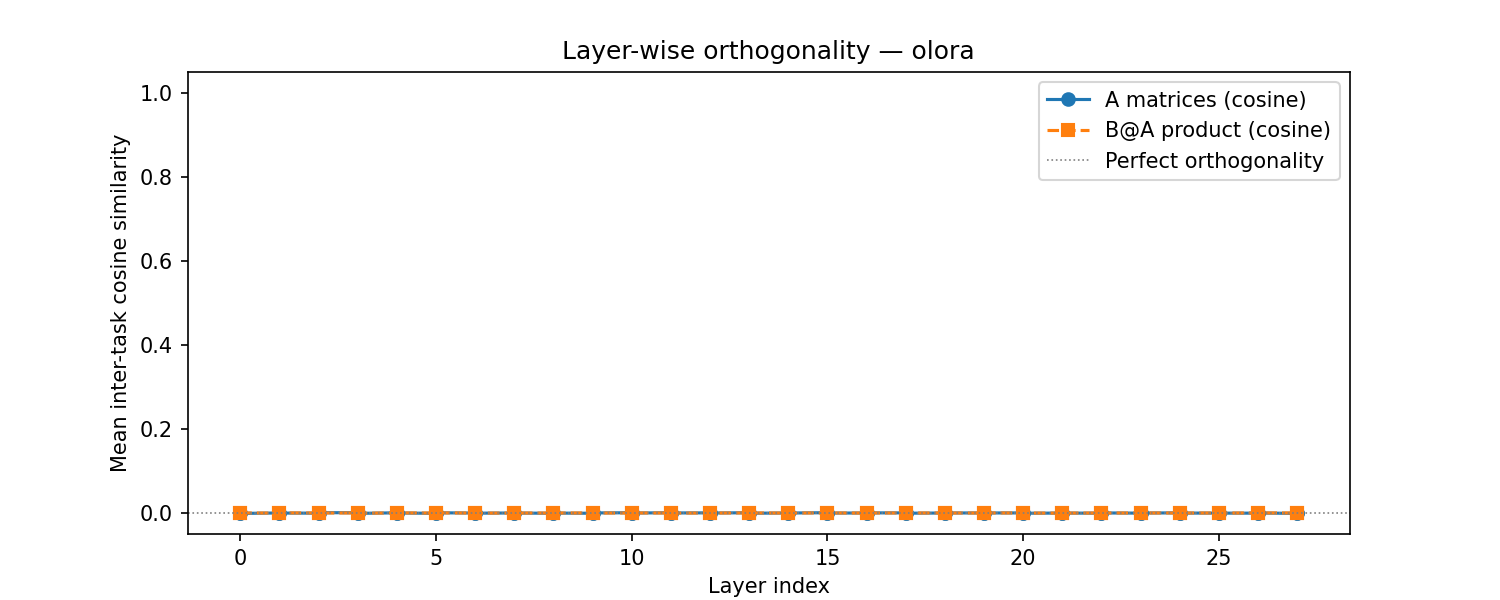
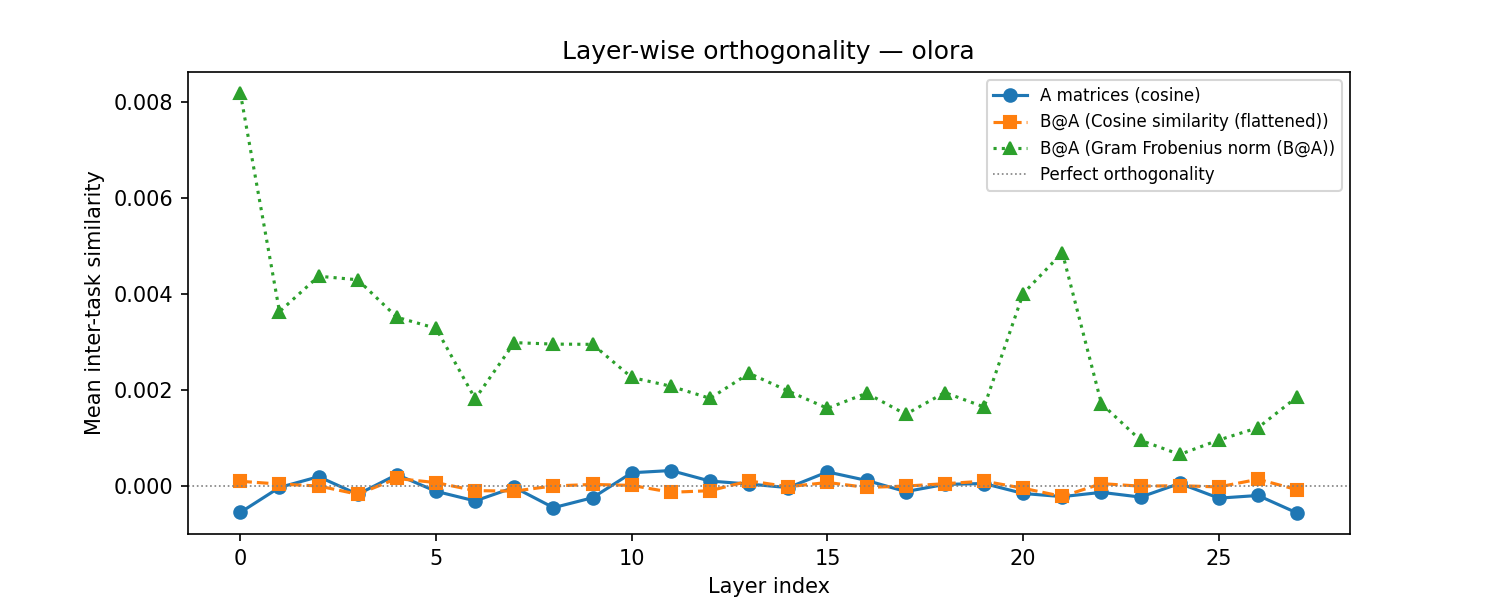
updated the report for A@B matrices (added unnormalized frobenius norm)

diff --git a/scripts/run_analysis.py b/scripts/run_analysis.py
@@ -42,6 +42,7 @@ from src.analysis.per_layer_analysis import (
 )
 
 ALL_METRICS = ['cosine', 'frobenius', 'principal']
+AB_METRICS  = ['cosine', 'frobenius_ab']
 
 
 def run_analysis(adapters: dict, method_name: str, task_names: list,
@@ -62,15 +63,16 @@ def run_analysis(adapters: dict, method_name: str, task_names: list,
     plt.close(fig)
     print("Saved task-pair A-matrix similarity heatmaps.")
 
-    # ── 2: B@A product cosine heatmap ─────────────────────────────────────────
-    sim_AB = task_similarity_matrix(adapters, mode='AB', metric='cosine')
-    fig, ax = plt.subplots(figsize=(5, 4))
-    fig.suptitle(f'{method_name} — task-pair cosine similarity (B@A product)')
-    plot_similarity_heatmap(sim_AB, 'B@A cosine', task_names, ax=ax)
+    # ── 2: B@A product heatmaps ───────────────────────────────────────────────
+    sim_AB = {m: task_similarity_matrix(adapters, mode='AB', metric=m) for m in AB_METRICS}
+    fig, axes = plt.subplots(1, len(AB_METRICS), figsize=(6 * len(AB_METRICS), 4))
+    fig.suptitle(f'{method_name} — task-pair similarity (B@A product)')
+    for ax, metric in zip(axes, AB_METRICS):
+        plot_similarity_heatmap(sim_AB[metric], METRIC_LABELS[metric], task_names, ax=ax)
     plt.tight_layout()
     fig.savefig(os.path.join(output_dir, f'{method_name}_task_similarity_AB.png'), dpi=150)
     plt.close(fig)
-    print("Saved task-pair B@A cosine heatmap.")
+    print("Saved task-pair B@A heatmaps.")
 
     # ── 3: Task-pair similarity heatmaps for all 3 B-matrix metrics ───────────
     sim_B = {}
@@ -97,9 +99,11 @@ def run_analysis(adapters: dict, method_name: str, task_names: list,
     plt.close(fig)
     print("Saved layer-wise A-matrix orthogonality plot.")
 
-    # ── 5: Layer-wise A vs AB (cosine only, for direct comparison) ────────────
-    pl_AB = per_layer_similarity(adapters, mode='AB', metric='cosine')
-    layer_scores_AB = average_off_diagonal_per_layer(pl_AB)
+    # ── 5: Layer-wise A vs AB (cosine + frobenius_ab) ─────────────────────────
+    layer_scores_AB = {}
+    for metric in AB_METRICS:
+        pl_AB = per_layer_similarity(adapters, mode='AB', metric=metric)
+        layer_scores_AB[metric] = average_off_diagonal_per_layer(pl_AB)
 
     fig = plot_ab_layer_orthogonality(
         layer_scores_A['cosine'], layer_scores_AB, method_name=method_name
@@ -115,10 +119,10 @@ def run_analysis(adapters: dict, method_name: str, task_names: list,
     print("Saved per-module orthogonality plot.")
 
     # ── 7: Summary statistics ─────────────────────────────────────────────────
-    stats_A = {metric: summary_stats(sim_A[metric]) for metric in ALL_METRICS}
-    stats_B = {metric: summary_stats(sim_B[metric]) for metric in ALL_METRICS}
-    stats_AB = summary_stats(sim_AB)
-    print_summary(method_name, stats_A, stats_AB)
+    stats_A  = {metric: summary_stats(sim_A[metric]) for metric in ALL_METRICS}
+    stats_B  = {metric: summary_stats(sim_B[metric]) for metric in ALL_METRICS}
+    stats_AB = {metric: summary_stats(sim_AB[metric]) for metric in AB_METRICS}
+    print_summary(method_name, stats_A, stats_AB['cosine'])
 
     results = {
         'method':     method_name,
@@ -139,9 +143,12 @@ def run_analysis(adapters: dict, method_name: str, task_names: list,
             for metric in ALL_METRICS
         },
         'AB_product': {
-            'sim_matrix':   sim_AB.tolist(),
-            'summary':      stats_AB,
-            'layer_scores': {k: float(v) for k, v in layer_scores_AB.items()},
+            metric: {
+                'sim_matrix':   sim_AB[metric].tolist(),
+                'summary':      stats_AB[metric],
+                'layer_scores': {k: float(v) for k, v in layer_scores_AB[metric].items()},
+            }
+            for metric in AB_METRICS
         },
     }
     out_path = os.path.join(output_dir, f'{method_name}_analysis.json')

diff --git a/src/analysis/per_layer_analysis.py b/src/analysis/per_layer_analysis.py
@@ -137,22 +137,39 @@ def plot_module_orthogonality(scores_per_metric: dict, method_name: str = ''):
     return fig
 
 
-def plot_ab_layer_orthogonality(scores_A: dict, scores_AB: dict, method_name: str = ''):
-    """Line plot comparing A-level vs AB-product cosine similarity per layer."""
-    layers_A  = _sorted_layers(scores_A)
-    layers_AB = _sorted_layers(scores_AB)
+def plot_ab_layer_orthogonality(scores_A_cosine: dict, scores_AB: dict, method_name: str = ''):
+    """Line plot comparing A cosine vs B@A product metrics per layer.
+
+    Args:
+        scores_A_cosine: {layer_name: float} — A matrix cosine similarity
+        scores_AB:       {metric_name: {layer_name: float}} — B@A metrics
+    """
+    from src.analysis.orthogonality import METRIC_LABELS
+
+    def _avg_by_layer(scores):
+        layer_vals = defaultdict(list)
+        for k, v in scores.items():
+            layer_vals[layer_index(k)].append(v)
+        idxs = sorted(layer_vals.keys())
+        return idxs, [float(np.mean(layer_vals[idx])) for idx in idxs]
 
     fig, ax = plt.subplots(figsize=(10, 4))
-    ax.plot([layer_index(k) for k, _ in layers_A],  [v for _, v in layers_A],
-            marker='o', label='A matrices (cosine)', linewidth=1.5)
-    ax.plot([layer_index(k) for k, _ in layers_AB], [v for _, v in layers_AB],
-            marker='s', label='B@A product (cosine)', linewidth=1.5, linestyle='--')
+
+    idxs, vals = _avg_by_layer(scores_A_cosine)
+    ax.plot(idxs, vals, marker='o', label='A matrices (cosine)', linewidth=1.5)
+
+    markers = ['s', '^', 'D']
+    linestyles = ['--', ':', '-.']
+    for (marker, ls), (metric, scores) in zip(zip(markers, linestyles), scores_AB.items()):
+        idxs, vals = _avg_by_layer(scores)
+        ax.plot(idxs, vals, marker=marker, linestyle=ls,
+                label=f'B@A ({METRIC_LABELS[metric]})', linewidth=1.5)
+
     ax.axhline(0, color='grey', linestyle=':', linewidth=0.8, label='Perfect orthogonality')
     ax.set_xlabel('Layer index')
-    ax.set_ylabel('Mean inter-task cosine similarity')
+    ax.set_ylabel('Mean inter-task similarity')
     ax.set_title(f'Layer-wise orthogonality — {method_name}')
-    ax.legend()
-    ax.set_ylim(-0.05, 1.05)
+    ax.legend(fontsize=8)
     return fig
 
 

diff --git a/src/analysis/orthogonality.py b/src/analysis/orthogonality.py
@@ -25,6 +25,17 @@ def cosine_sim(a: torch.Tensor, b: torch.Tensor) -> float:
     return (a_f @ b_f / denom).item()
 
 
+def gram_frobenius_delta(a: torch.Tensor, b: torch.Tensor) -> float:
+    """Frobenius norm of the Gram matrix for B@A product matrices.
+
+    For ΔW = B@A of shape (fan_out, fan_in), G = ΔW_i @ ΔW_j.T has shape
+    (fan_out, fan_out). Returns the raw ||G||_F without normalization.
+    In [0, inf); 0 = perfectly orthogonal weight updates.
+    """
+    G = a.float() @ b.float().T
+    return torch.norm(G, p='fro').item()
+
+
 def gram_frobenius(a: torch.Tensor, b: torch.Tensor) -> float:
     """Normalized Frobenius norm of the Gram matrix G = a @ b.T.
 
@@ -66,15 +77,17 @@ def max_principal_cos(a: torch.Tensor, b: torch.Tensor) -> float:
 
 
 METRICS = {
-    'cosine':    cosine_sim,
-    'frobenius': gram_frobenius,
-    'principal': max_principal_cos,
+    'cosine':        cosine_sim,
+    'frobenius':     gram_frobenius,
+    'principal':     max_principal_cos,
+    'frobenius_ab':  gram_frobenius_delta,
 }
 
 METRIC_LABELS = {
-    'cosine':    'Cosine similarity (flattened)',
-    'frobenius': 'Gram Frobenius norm / r',
-    'principal': 'Max principal angle cosine',
+    'cosine':        'Cosine similarity (flattened)',
+    'frobenius':     'Gram Frobenius norm / r',
+    'principal':     'Max principal angle cosine',
+    'frobenius_ab':  'Gram Frobenius norm (B@A)',
 }
 
 

diff --git a/docs/docs.md b/docs/docs.md
@@ -62,6 +62,8 @@ To verify the geometric effect of the regularization, three complementary metric
 - **Gram Frobenius norm / r** — computes the Frobenius norm of the cross-Gram matrix (Aᵢ Aⱼᵀ) normalized by the rank r; this directly corresponds to the quantity minimized by the orthogonal loss term, making it the most interpretable metric in the context of O-LoRA's training objective.
 - **Max principal angle cosine** — finds the largest singular value of the normalized cross-Gram between orthonormalized bases of the two row (or column) subspaces; this captures the closest pair of directions between the two subspaces regardless of overall matrix magnitude.
 
+The same cosine and Gram Frobenius metrics are also applied to the full weight update ΔW = B@A. For these product matrices the Frobenius norm is reported without rank normalization — unlike the A-matrix case where dividing by r=8 removes the dependence on how many rank dimensions contribute, the ΔW matrices have shape (fan_out × fan_in). Normalizing by fan_out would instead scale values by up to 192× depending on the module, making comparisons across module types (e.g. q_proj with fan_out=1536 vs up_proj with fan_out=8960) misleading. The raw ||G||_F is therefore reported, with the understanding that values are not directly comparable across modules but are consistent within a module type across task pairs.
+
 ## Conclusions
 
 The results confirm that O-LoRA's orthogonal regularization successfully keeps the A matrices of different tasks geometrically separated: all three metrics show near-zero pairwise similarity across tasks, and this holds even with λ₁=0.2–0.3, which is lower than the value used in the original paper. The constraint is therefore not difficult to satisfy — a relatively mild penalty is sufficient to enforce the geometric separation in the low-rank input projection space.
